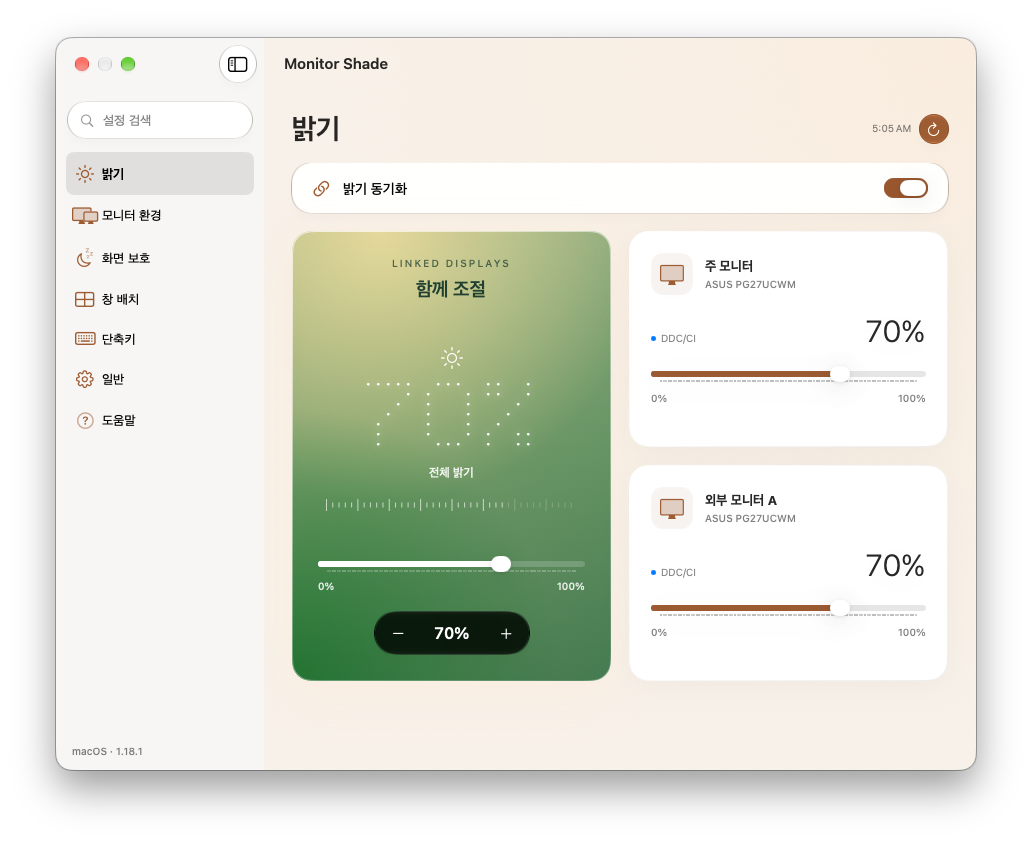
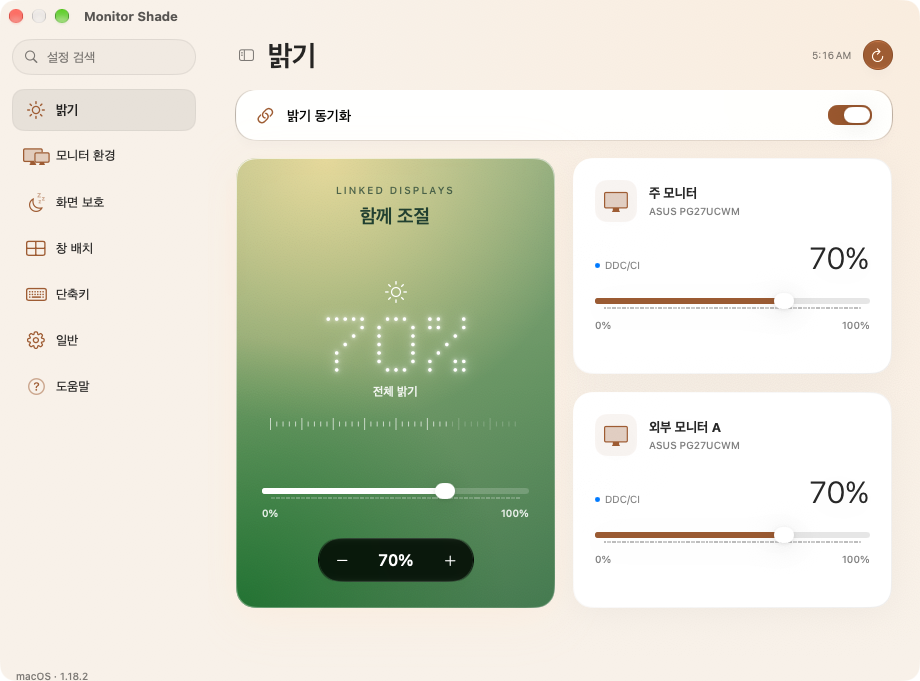
Refresh Mac screenshots and record the shared-backdrop regression checks [skip ci]

diff --git a/macos/VALIDATION.md b/macos/VALIDATION.md
@@ -1,11 +1,11 @@
-# macOS 1.18.1 validation
+# macOS 1.18.2 validation
 
 2026-10-23 (Asia/Seoul).
 
 Built on the GitHub-hosted macOS 26 runner with Xcode 26.6. The packaged app also ran on macOS 27.0.1 using the `xcode-27` runner:
-[run 39903626836](https://github.com/iismn/MonitorShade/actions/runs/39903626836).
+[run 39904675769](https://github.com/iismn/MonitorShade/actions/runs/39904675769).
 
-The app source for this package is commit `bbbf60494c2779445c86b4e0f2b28bba319d0276`. Later README and screenshot commits do not change the executable sources.
+The app source for this package is commit `3f26c7007c6cf7783c7a55b5fd485943aa4ce486`. Later README and screenshot commits do not change the executable sources.
 
 | Check | Result |
 | --- | --- |
@@ -17,19 +17,21 @@ The app source for this package is commit `bbbf60494c2779445c86b4e0f2b28bba319d0
 | New geometry, shortcuts, content comparison, profile-target reconnection and time-palette checks | 133 passed |
 | Native settings-window renders | 7 pages × morning/evening × macOS 26/27; 28 passed |
 | Sidebar visibility in composited window captures | Passed |
+| Sidebar and detail share one backdrop | Morning/evening RGB difference ≤ 0.0001 on macOS 26 and 27 |
+| Sidebar follows the time palette | Passed on macOS 26 and 27 |
 | ZIP contains executable mode and both architectures | Passed |
 | ZIP excludes personal profiles and diagnostics | Passed |
 
 The UI tests use preview monitors. They do not modify hardware, register global shortcuts or load user display profiles. Screenshots are of the test app's own window on the CI runner.
 
-The README images are the app's native macOS 27.0.1 window captures, with preview display data. The duplicate sidebar heading is absent. Morning and evening brightness cards were visually checked for aligned edges, readable controls and the dot readout.
+The README images are the app's native macOS 27.0.1 window captures, with preview display data. The sidebar has no separate dark panel. Its empty background matches the detail background. The dot readout uses a 20% smaller frame with brighter dots and glow. Morning and evening brightness cards were visually checked for aligned edges, readable controls and the dot readout.
 
[1 lines of base64/hex data omitted]
 
 Package SHA-256:
 
 ```text
-f6da4ecf6447d680f05d333233dfb1e56d0503b49ca82cbae77cd8acdb9a3bd8  MonitorShade-macOS.zip
+a318e309796edf3ed99431adb8f92a6790f18bdec870e68a4b46dc5740951f0c  MonitorShade-macOS.zip
 ```
 
 Physical monitor DDC/CI writes, cable reconnection, rotation, login startup, permission approval, screen-content capture and third-party window movement were not exercised on the user's Mac in this run. The supplied app's earlier hardware validation is reference evidence; it is not a substitute for testing this integration on that hardware. The app is not Apple notarized.

diff --git a/macos/README.md b/macos/README.md
@@ -68,6 +68,6 @@ The app does not need Edge, WebView2, .NET or a browser runtime. Its panels use 
 
 ## Interface
 
-The window uses the system sidebar and a single window title. Search, brightness sync and the linked brightness controls use native Liquid Glass on macOS 26 or later. Content cards use standard materials. The linked card blends green daytime colors into orange, pink and pale gray in the evening. The native window backdrop stays live when the window moves.
+The sidebar and detail view share one full-window desktop backdrop and time palette. Navigation has no separate opaque panel. Search, hover states, keyboard navigation and the sidebar visibility control are retained. Brightness sync and the linked brightness controls use native Liquid Glass on macOS 26 or later. Content cards use standard materials. The linked card blends green daytime colors into orange, pink and pale gray in the evening. Its dot readout is 20% smaller than 1.18.1, with larger white dots and two soft glow layers. The native window backdrop stays live when the window moves.
 
 The design follows Apple's [Materials guidance](https://developer.apple.com/design/human-interface-guidelines/materials) and [macOS 27 design updates](https://developer.apple.com/videos/play/wwdc2026/289/), with the soft gradients and dot readout from the supplied [visual reference](https://www.instagram.com/p/DeKDxK1MhzI/). System Reduce Transparency and Increase Contrast settings affect the materials. Page transitions honor Reduce Motion.

diff --git a/README.md b/README.md
@@ -10,7 +10,7 @@
 
 <br><br>
 
-[**Download for macOS**](https://github.com/iismn/MonitorShade/releases/download/mac-v1.18.1/MonitorShade-macOS.zip)
+[**Download for macOS**](https://github.com/iismn/MonitorShade/releases/download/mac-v1.18.2/MonitorShade-macOS.zip)
 
 **macOS 14+ · Apple silicon / Intel · Native app**
 
@@ -68,7 +68,7 @@ Edit all bindings in **Shortcuts**. Window control needs Accessibility permissio
 | :---: | :---: |
 | ![Morning native Mac UI](docs/images/macos-morning-brightness.png) | ![Evening native Mac UI](docs/images/macos-evening-brightness.png) |
 
-Live desktop blur, time palettes and a glowing dot readout. Native Liquid Glass search and controls on macOS 26 or later, with macOS 27 sidebar refinements. Earlier systems use standard materials. No separate browser runtime.
+A shared desktop backdrop across the sidebar and content, time palettes and a compact glowing dot readout. Native Liquid Glass brightness controls on macOS 26 or later. Earlier systems use standard materials. No separate browser runtime.
 
 <br>
 
